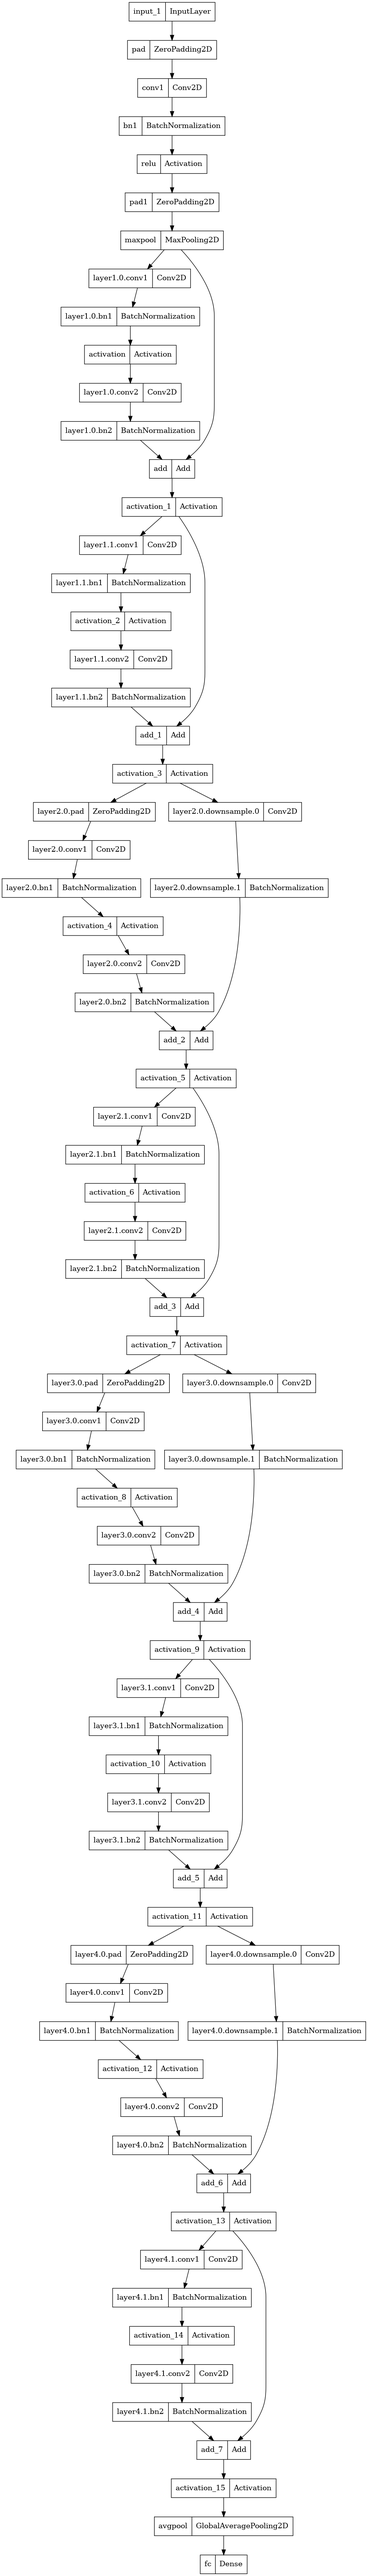
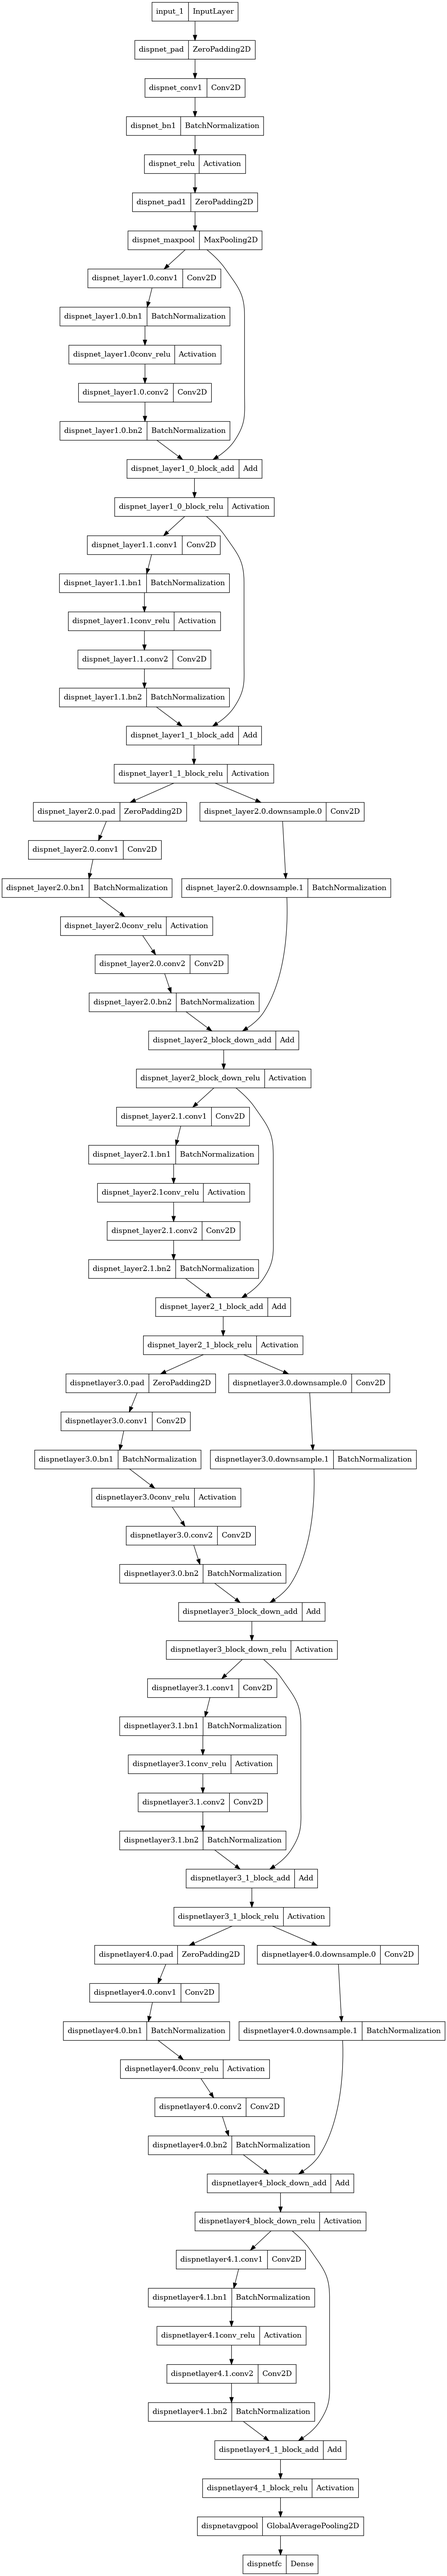
Update

diff --git a/model/monodepth2.py b/model/monodepth2.py
@@ -107,28 +107,11 @@ class DispNet(tf.keras.Model):
         self.batch_size = batch_size
         self.prefix_str = prefix
 
-        # 1) 인코더(ResNet18Encoder)
-        # self.encoder = ResNet18Encoder(
-        #     image_shape=image_shape,
-        #     batch_size=batch_size,
-        #     prefix=prefix
-        # )
-
-        # self.encoder = EfficientNetV2Encoder(image_shape=(*image_shape, 3),
-        #                                      batch_size=batch_size,
-        #                                      prefix=prefix).build_model()
-        
-        # self.encoder = resnet_18()
-
-        # self.encoder = MobilenetV3Large(image_shape=(*image_shape, 3),
-        #                                 batch_size=batch_size,
-        #                                 prefix=prefix + '_mobilenetv3large').build_model()
-
         self.encoder = Resnet(image_shape=(*image_shape, 3),
                                         batch_size=batch_size,
-                                        prefix=prefix + '_mobilenetv3large').build_model()
+                                        prefix=prefix + '_resnet18').build_model()
 
-        # 2) 디코더 (Depth Decoder)
+        # Depth Decoder
         print('Building Depth Decoder Model')
         filters = [16, 32, 64, 128, 256]
 
@@ -229,6 +212,66 @@ class DispNet(tf.keras.Model):
 
         return disp1, disp2, disp3, disp4
 
+class ImuNet(tf.keras.Model):
+    def __init__(self,
+                 imu_shape: tuple,
+                 batch_size: int,
+                 prefix='imunet',
+                 **kwargs):
+        super(ImuNet, self).__init__(**kwargs)
+        
+        self.imu_shape = imu_shape
+        self.batch_size = batch_size
+
+        self.encoder_conv = tf.keras.Sequential([
+            # Layer1
+            tf.keras.layers.Conv1D(64, kernel_size=3, padding='same',
+                                   use_bias=False,
+                                   name='IMU_ENCODER_conv1'),
+            tf.keras.layers.BatchNormalization(
+                                               name='IMU_ENCODER_bn1'),
+            tf.keras.layers.LeakyReLU(alpha=0.1,
+                                      name='IMU_ENCODER_leaky_relu1'),\
+
+            # Layer 2
+            tf.keras.layers.Conv1D(128, kernel_size=3, padding='same',
+                                   use_bias=False,
+                                   name='IMU_ENCODER_conv2'),
+            tf.keras.layers.BatchNormalization(
+                                               name='IMU_ENCODER_bn2'),
+            tf.keras.layers.LeakyReLU(alpha=0.1, name='IMU_ENCODER_leaky_relu2'),
+
+            # Layer 3
+            tf.keras.layers.Conv1D(256, kernel_size=3, padding='same',
+                                   use_bias=False,              
+                                   name='IMU_ENCODER_conv3'),
+            tf.keras.layers.BatchNormalization(
+                                               name='IMU_ENCODER_bn3'),
+            tf.keras.layers.LeakyReLU(alpha=0.1, name='IMU_ENCODER_leaky_relu3'),
+        ])
+
+        cells = [tf.keras.layers.LSTMCell(256,
+                                          name='Pose_lstm_1'),
+                tf.keras.layers.LSTMCell(256,
+                                          name='Pose_lstm_2')
+                                          ]
+        stacked_lstm_cells = tf.keras.layers.StackedRNNCells(cells, name='Pose_stacked_lstm_cells')
+        
+        self.rnn = tf.keras.layers.RNN(stacked_lstm_cells, return_sequences=True, return_state=True, name='Pose_rnn')
+        self.reduce_mean = tf.keras.layers.GlobalAveragePooling1D(name='Pose_reduce_mean')
+    
+    def call(self, inputs, training=False):
+        """
+        inputs: [B, T, 6]
+        return: [B, 256]
+        """
+        x = self.encoder_conv(inputs, training=training) # [B, T, 256]
+        x = self.rnn(x, training=training) # [B, T, 256]
+        x = self.reduce_mean(x) # [B, 256]
+        return x
+
+
+
 class PoseNet(tf.keras.Model):
     """
     - 입력: (B, H, W, 6)  (ex: 소스+타겟 concat)
@@ -246,14 +289,10 @@ class PoseNet(tf.keras.Model):
         self.image_width = image_shape[1]
         self.batch_size = batch_size
 
-        # 1) ResNet-18 인코더 (채널=6)
-        # self.encoder = ResNet18Encoder(
-        #     image_shape=(self.image_height, self.image_width, 6),
-        #     batch_size=batch_size,
-        #     prefix=prefix
-        # )
-
-        self.encoder = resnet_18()
+        # self.encoder = resnet_18()
+        self.encoder = Resnet(image_shape=(*image_shape, 3),
+                                        batch_size=batch_size,
+                                        prefix=prefix + '_resnet18').build_model()
 
         # 2) 이후 pose 계산용 Conv 레이어들
         #    (질문 코드: std_conv(1,256)->std_conv(3,256)->std_conv(3,256)->Conv2D(6))
@@ -309,7 +348,7 @@ class MonoDepth2Model(tf.keras.Model):
 
         self.depth_net = DispNet(image_shape=image_shape, batch_size=batch_size, prefix='disp_resnet')
         self.depth_net(tf.random.normal((1, *image_shape, 3)))
-        self.depth_net.load_weights('./pre_trained_weights/dispnet/dispnet_resnet.h5')
+        # self.depth_net.load_weights('./pre_trained_weights/dispnet/dispnet_resnet.h5')
 
         self.pose_net = PoseNet(image_shape=image_shape, batch_size=batch_size, prefix='mono_posenet')
 

diff --git a/vio/dataset/mars_logger.py b/vio/dataset/mars_logger.py
@@ -17,29 +17,79 @@ class MarsLoggerHandler(object):
         self.train_data = self.generate_datasets(fold_dir=self.train_dir, shuffle=True)
         self.valid_data = self.generate_datasets(fold_dir=self.valid_dir, shuffle=False)
 
-    def _extract_video(self, scene_dir: str, current_intrinsic: np.ndarray) -> int:
+    # def _extract_video(self, scene_dir: str, current_intrinsic: np.ndarray) -> int:
+    #     video_file = os.path.join(scene_dir, 'movie.mp4')
+    #     rgb_save_path = os.path.join(scene_dir, 'rgb')
+        
+    #     resized_intrinsic = self._rescale_intrinsic(current_intrinsic, self.save_image_size, self.original_image_size)
+        
+    #     if not os.path.exists(rgb_save_path):
+    #         print(f'Extracting video file: {video_file}')
+    #         os.makedirs(rgb_save_path, exist_ok=True)
+    #         idx = 0
+    #         cap = cv2.VideoCapture(video_file)    
+
+    #         while cap.isOpened():
+    #             ret, frame = cap.read()
+    #             if not ret:
+    #                 break
+    #             rgb_name = os.path.join(rgb_save_path, f'rgb_{str(idx).zfill(6)}.jpg')
+    #             frame = cv2.rotate(frame, cv2.ROTATE_90_COUNTERCLOCKWISE)
+    #             frame = cv2.resize(frame, (self.save_image_size[1], self.save_image_size[0]))
+    #             cv2.imwrite(rgb_name, frame)
+    #             idx += 1
+    #         cap.release()
+    #         cv2.destroyAllWindows()
+    #     return len(glob.glob(os.path.join(rgb_save_path, '*.jpg'))), resized_intrinsic
+    
+    def _extract_video(self, scene_dir: str, current_intrinsic: np.ndarray, camera_data: pd.DataFrame) -> int:
         video_file = os.path.join(scene_dir, 'movie.mp4')
+        metadata_file = os.path.join(scene_dir, 'movie_metadata.csv')
         rgb_save_path = os.path.join(scene_dir, 'rgb')
-        
+
+        # Rescale intrinsic matrix
         resized_intrinsic = self._rescale_intrinsic(current_intrinsic, self.save_image_size, self.original_image_size)
-        
+
+        # Read metadata
+        timestamps_ns = camera_data['Timestamp[nanosec]'].values  # Extract timestamps in nanoseconds
+        timestamps_s = timestamps_ns / 1e9  # Convert to seconds
+
+        # Ensure output directory exists
         if not os.path.exists(rgb_save_path):
             print(f'Extracting video file: {video_file}')
             os.makedirs(rgb_save_path, exist_ok=True)
-            idx = 0
-            cap = cv2.VideoCapture(video_file)    
 
-            while cap.isOpened():
+            cap = cv2.VideoCapture(video_file)
+            if not cap.isOpened():
+                raise ValueError(f"Failed to open video file: {video_file}")
+
+            # Get video properties
+            fps = cap.get(cv2.CAP_PROP_FPS)
+            video_start_time = timestamps_s[0]  # Assume the first timestamp aligns with the video's start
+
+            for idx, timestamp in enumerate(timestamps_s):
+                # Calculate frame number for the timestamp
+                relative_time = timestamp - video_start_time
+                frame_number = int(relative_time * fps)
+
+                # Set the video to the calculated frame number
+                cap.set(cv2.CAP_PROP_POS_FRAMES, frame_number)
                 ret, frame = cap.read()
+
                 if not ret:
-                    break
+                    print(f"Error: Unable to read frame for timestamp {timestamp}")
+                    continue
+
+                # Process and save the frame
                 rgb_name = os.path.join(rgb_save_path, f'rgb_{str(idx).zfill(6)}.jpg')
                 frame = cv2.rotate(frame, cv2.ROTATE_90_COUNTERCLOCKWISE)
                 frame = cv2.resize(frame, (self.save_image_size[1], self.save_image_size[0]))
                 cv2.imwrite(rgb_name, frame)
-                idx += 1
+
             cap.release()
             cv2.destroyAllWindows()
+
+        # Count and return the number of saved frames
         return len(glob.glob(os.path.join(rgb_save_path, '*.jpg'))), resized_intrinsic
 
     def _rescale_intrinsic(self, intrinsic: np.ndarray, target_size: tuple, current_size: tuple) -> np.ndarray:
@@ -66,7 +116,7 @@ class MarsLoggerHandler(object):
         raw_intrinsic = np.array([[fx, 0, cx], [0, fy, cy], [0, 0, 1]])
     
         # load video .mp4
-        length, resized_intrinsic = self._extract_video(scene_dir, raw_intrinsic)
+        length, resized_intrinsic = self._extract_video(scene_dir, raw_intrinsic, camera_data)
 
         intrinsic = self._rescale_intrinsic(resized_intrinsic, self.image_size, self.save_image_size)
         step = 1

diff --git a/depth/depth_learner.py b/depth/depth_learner.py
@@ -13,7 +13,14 @@ class DepthLearner(object):
         scaled_disp = tf.cast(min_disp, tf.float32) + tf.cast(max_disp - min_disp, tf.float32) * tf.cast(disp, tf.float32)
         depth = tf.cast(1., tf.float32) / scaled_disp
         return depth
-        
+
+    def scaled_depth_to_disp(self, depth):
+        min_disp = 1. / self.max_depth
+        max_disp = 1. / self.min_depth
+        scaled_disp = tf.cast(1., tf.float32) / tf.cast(depth, tf.float32)
+        disp = (scaled_disp - min_disp) / (max_disp - min_disp)
+        return disp
+    
     def get_smooth_loss(self, disp, img):
         """
         Edge-aware smoothness: disp gradients * exp(-|img grads|)
@@ -78,7 +85,7 @@ class DepthLearner(object):
 
         return loss_val
     
-    def multi_scale_loss(self, pred_depths, gt_depth, rgb, valid_mask) -> dict:
+    def multi_scale_loss(self, pred_depths, pred_disps,  gt_depth, rgb, valid_mask) -> dict:
         alpha = [1/2, 1/4, 1/8, 1/16] 
         smooth_losses = 0.0
         log_losses = 0.0
@@ -99,8 +106,13 @@ class DepthLearner(object):
                 original_shape,
                 method=tf.image.ResizeMethod.BILINEAR
             )
+
+            resized_disp = self.scaled_depth_to_disp(pred_depth_resized)
+
+            # disp -> depth
+
             # smoothness loss
-            # smooth_losses += self.get_smooth_loss(pred_depth_resized, rgb) * alpha[i]
+            smooth_losses += self.get_smooth_loss(resized_disp, rgb) * alpha[i]
             
             # scale-invariant log loss
             log_losses += self.silog_loss(pred_depth_resized, gt_depth, valid_mask) * alpha[i]
@@ -127,7 +139,11 @@ class DepthLearner(object):
         # 2. Disps -> Depths
         # 깊이가 self.max_depth보다 크거나 self.min_depth보다 작은 경우 0으로 치환
         # valid_mask = depth > 0
-        valid_mask = tf.logical_and((depth > self.min_depth), (depth < self.max_depth))
+        """
+        depth = tf.clip_by_value(depth, 0., self.max_depth)
+        depth = tf.where(depth > self.max_depth, 0., depth)
+        """
+        valid_mask = tf.logical_and((depth > 0.), (depth < self.max_depth))
 
         pred_depths = [
             self.disp_to_depth(disp)
@@ -136,6 +152,7 @@ class DepthLearner(object):
 
         # 3. multi-scale loss 계산
         loss_dict = self.multi_scale_loss(pred_depths=pred_depths,
+                                          pred_disps=pred_disps,
                                           gt_depth=depth,
                                           rgb=rgb,
                                           valid_mask=valid_mask)

diff --git a/script/hypersim_converter_tfrecord.py b/script/hypersim_converter_tfrecord.py
@@ -67,21 +67,21 @@ class HypersimTFRecord(object):
                     rgb = np.array(Image.open(rgb_name))
                     depth = np.array(Image.open(depth_name)) * 0.001
 
-                    # depth 0 pixel값이 10% 이상이 경우 스킵
-                    if np.sum(depth == 0) / depth.size > self.zero_depth_threshold:
-                        print(f"Skip {rgb_name} and {depth_name}. Becuase of 0 depth pixel ratio is over {int(self.zero_depth_threshold * 100.)}%")
-                        # plt.imshow(depth, cmap='plasma', vmin=0., vmax=self.max_depth)
-                        # plt.show()
-                        self.removed_count += 1
-                        continue
+                    # # depth 0 pixel값이 10% 이상이 경우 스킵
+                    # if np.sum(depth == 0) / depth.size > self.zero_depth_threshold:
+                    #     print(f"Skip {rgb_name} and {depth_name}. Becuase of 0 depth pixel ratio is over {int(self.zero_depth_threshold * 100.)}%")
+                    #     # plt.imshow(depth, cmap='plasma', vmin=0., vmax=self.max_depth)
+                    #     # plt.show()
+                    #     self.removed_count += 1
+                    #     continue
 
-                    # max_depth를 초과하는 pixel이 10% 이상인 경우 스킵
-                    if np.sum(depth > self.max_depth) / depth.size > 0.1:
-                        print(f"Skip {rgb_name} and {depth_name}. Becuase of max depth pixel ratio is over {int(self.max_depth_threshold * 100.)}%")
-                        # plt.imshow(depth, cmap='plasma', vmin=0., vmax=self.max_depth)
-                        # plt.show()
-                        self.removed_count += 1
-                        continue
+                    # # max_depth를 초과하는 pixel이 10% 이상인 경우 스킵
+                    # if np.sum(depth > self.max_depth) / depth.size > 0.1:
+                    #     print(f"Skip {rgb_name} and {depth_name}. Becuase of max depth pixel ratio is over {int(self.max_depth_threshold * 100.)}%")
+                    #     # plt.imshow(depth, cmap='plasma', vmin=0., vmax=self.max_depth)
+                    #     # plt.show()
+                    #     self.removed_count += 1
+                    #     continue
 
                     serialized_example = self.serialize_example(rgb, depth)
                     writer.write(serialized_example)

diff --git a/depth/train.py b/depth/train.py
@@ -48,10 +48,10 @@ class Trainer(object):
         # 3. Optimizer
         self.warmup_scheduler = tf.keras.optimizers.schedules.PolynomialDecay(self.config['Train']['init_lr'],
                                                                               self.config['Train']['epoch'],
-                                                                              self.config['Train']['init_lr'] * 0.1,
-                                                                              power=0.9)
+                                                                              self.config['Train']['final_lr'],
+                                                                              power=self.config['Train']['power'])
         
-        self.optimizer = tf.keras.optimizers.Adam(learning_rate=self.config['Train']['init_lr'],
+        self.optimizer = tf.keras.optimizers.AdamW(learning_rate=self.config['Train']['init_lr'],
                                                   beta_1=self.config['Train']['beta1'],
                                                   weight_decay=self.config['Train']['weight_decay'] if self.config['Train']['weight_decay'] > 0 else None
                                                   ) # 
@@ -182,7 +182,9 @@ class Trainer(object):
                         del train_depth_plot
 
                 train_tqdm.set_postfix(
-                    total_loss=self.train_total_loss.result().numpy())
+                    total_loss=self.train_total_loss.result().numpy(),
+                    smooth_loss=self.train_smooth_loss.result().numpy()
+                    )
                 
             # End train session
             with self.train_summary_writer.as_default():

diff --git a/vio/dataset/data_loader.py b/vio/dataset/data_loader.py
@@ -4,8 +4,8 @@ try:
     from .tspxr_capture import TspxrCapture
     from .mars_logger import MarsLoggerHandler
 except:
-    from dataset.tspxr_capture import TspxrCapture
-    from dataset.mars_logger import MarsLoggerHandler
+    from tspxr_capture import TspxrCapture
+    from mars_logger import MarsLoggerHandler
 
 class DataLoader(object):
     def __init__(self, config) -> None:
@@ -170,8 +170,20 @@ if __name__ == '__main__':
         }
     }
     data_loader = DataLoader(config)
-    
+    import matplotlib.pyplot as plt
+
     for image, imu, intrinsic in data_loader.train_dataset.take(10):
+        left = data_loader.denormalize_image(image[0, :, :, 0:3]) / 255
+        tgt = data_loader.denormalize_image(image[0, :, :, 3:6]) / 255
+        right = data_loader.denormalize_image(image[0, :, :, 6:9]) / 255
+
+        left_tgt_residual = tf.abs(left - tgt)
+        tgt_right_residual = tf.abs(tgt - right)
+
+        plt.imshow(left_tgt_residual)
+        plt.show()
+        plt.imshow(tgt_right_residual)
+        plt.show()
         print(image.shape, imu.shape, intrinsic.shape)
         print(intrinsic)
 

diff --git a/vio/train.py b/vio/train.py
@@ -1,3 +1,6 @@
+import sys
+import os
+sys.path.append(os.path.dirname(os.path.abspath(os.path.dirname(__file__))))
 import tensorflow as tf
 from dataset.data_loader import DataLoader
 from utils.plot_utils import plot_images, plot_warp_images
@@ -7,7 +10,6 @@ from tqdm import tqdm
 import numpy as np
 from datetime import datetime
 import yaml
-import os
 
 np.set_printoptions(suppress=True)
 
